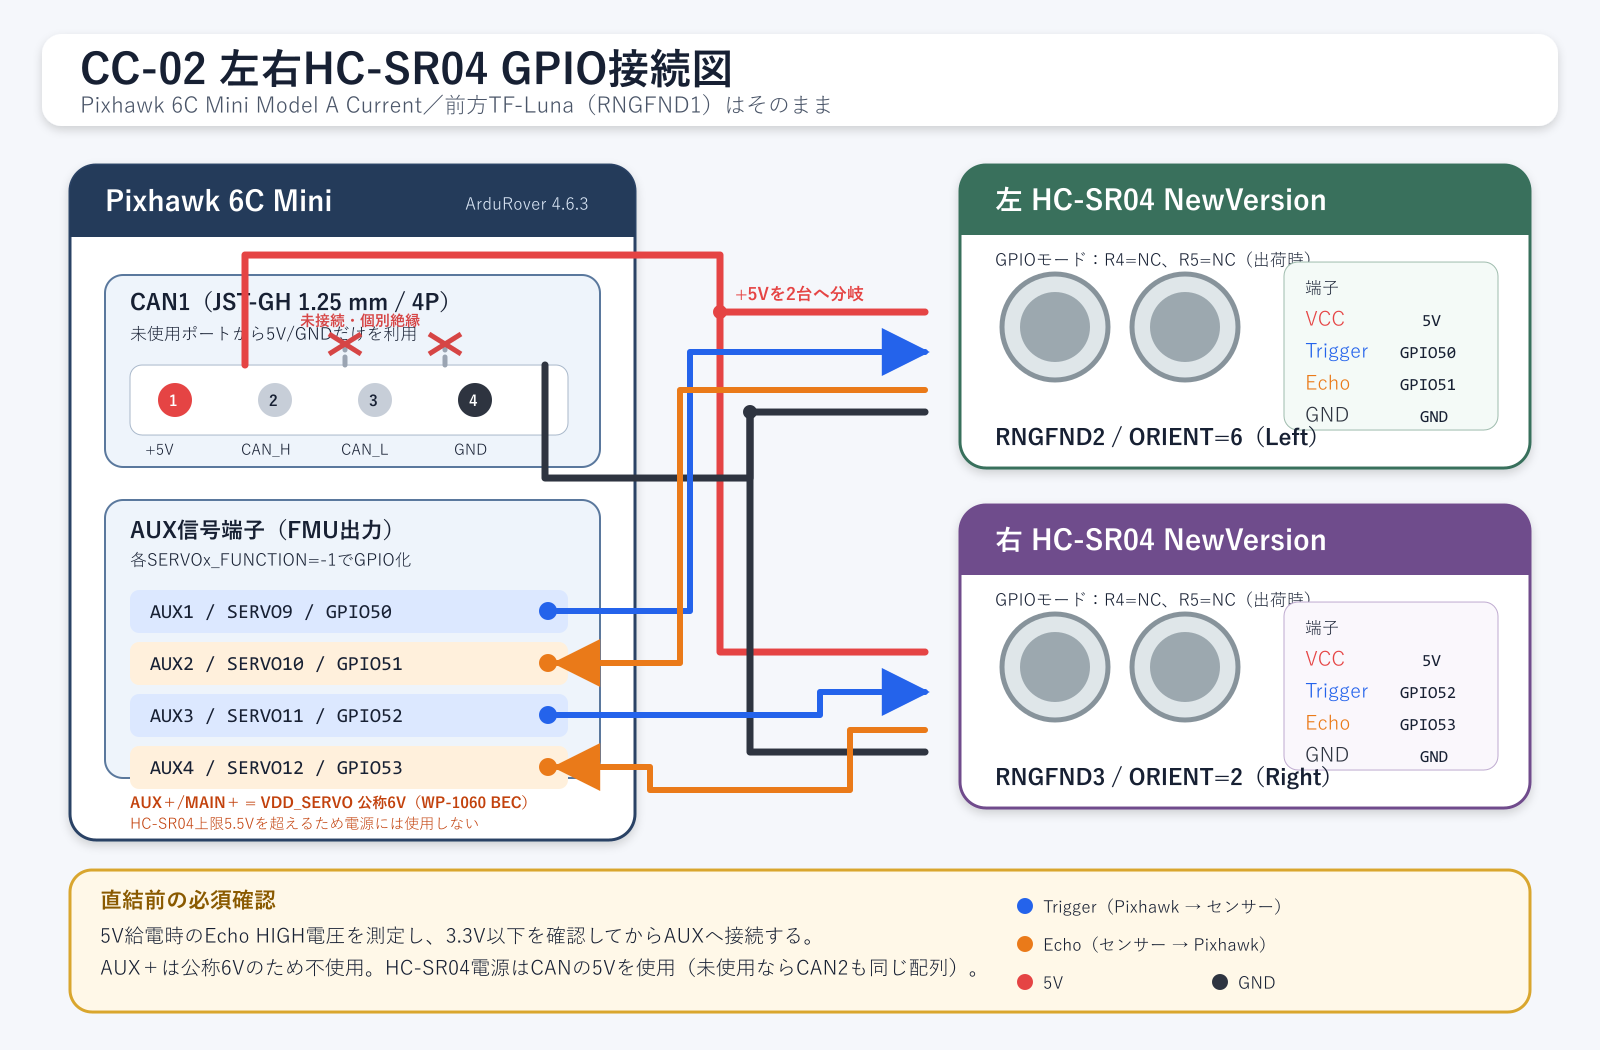
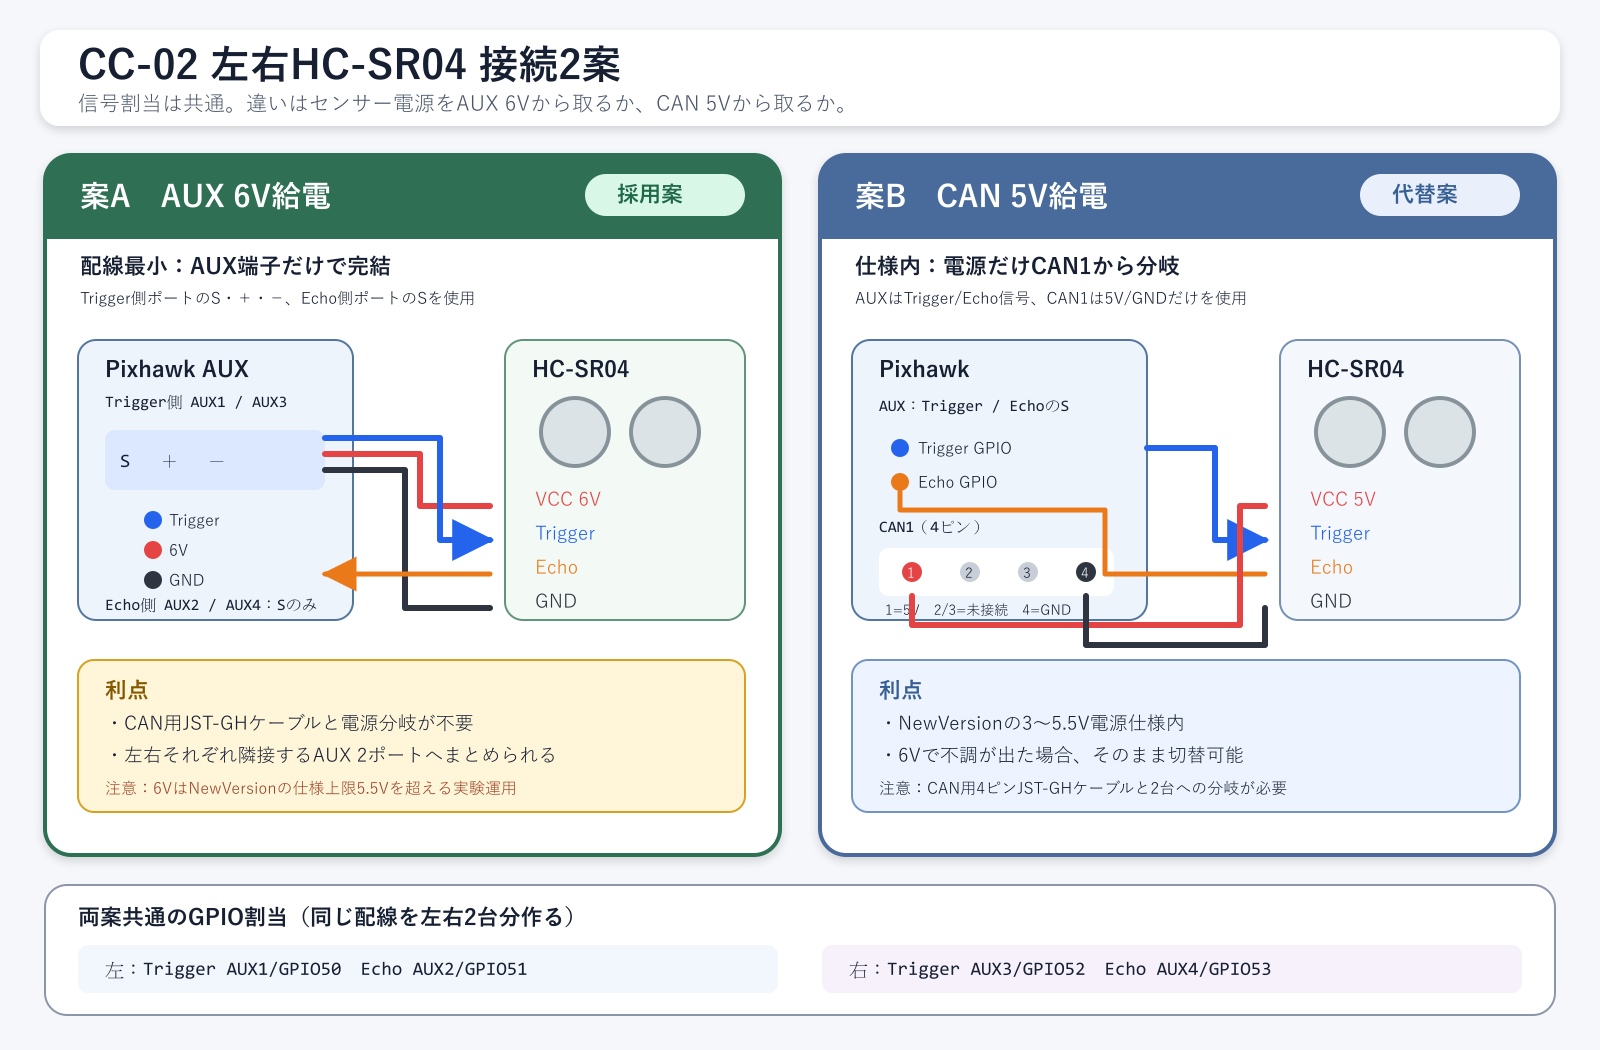
Update HC-SR04 project documentation and wiring diagrams
- Revised README.md to clarify power supply options and GPIO assignments for left and right HC-SR04 sensors.
- Updated wiring diagrams (PNG and SVG) to reflect new connection schemes for AUX 6V and CAN 5V power sources.
- Enhanced visual elements in SVG diagrams for better readability and understanding of wiring configurations.

diff --git a/projects/06_HC-SR04左右距離計/README.md b/projects/06_HC-SR04左右距離計/README.md
@@ -7,14 +7,15 @@ CC-02の左右にHC-SR04（2020 NewVersion）を追加し、Pixhawk 6C MiniのGP
 ## 資料
 
 - [HC-SR04左右距離計の接続と設定](01_HC-SR04左右距離計_接続と設定.md)
-- [接続図（PNG）](images/hc-sr04-dual-gpio-wiring.png)
-- [接続図（SVG）](images/hc-sr04-dual-gpio-wiring.svg)
+- [AUX 6V案／CAN 5V案の比較接続図（PNG）](images/hc-sr04-dual-gpio-wiring.png)
+- [AUX 6V案／CAN 5V案の比較接続図（SVG）](images/hc-sr04-dual-gpio-wiring.svg)
 
 ## 採用案
 
 - 前方の既設TF-Lunaは `RNGFND1` のまま維持する。
 - 左HC-SR04を `RNGFND2`、右HC-SR04を `RNGFND3` とする。
 - 信号はPixhawk 6C MiniのAUX1～AUX4をGPIOとして使用する。
-- 電源は未使用のCAN1から5V/GNDだけを分岐する。CAN2を使う場合もピン配置は同じ。
-- AUX/MAINの＋はQuicRun WP-1060のBEC由来で公称6Vとなるため、HC-SR04の電源には使わない。
+- 電源はAUXの `+`（VDD_SERVO、公称6V）と `-`（GND）を使用し、CAN電源ケーブルを不要にする。
+- 公称6VはNewVersionの仕様上限5.5Vを超えるが、6V直結の実用例と配線簡素化を優先した実験運用とする。
+- Echoは抵抗を入れず、AUX信号端子へ直接接続する。
 - HC-SR04は出荷時のGPIOモード（`R4=NC`、`R5=NC`）で使う。

diff --git a/projects/README.md b/projects/README.md
@@ -9,7 +9,7 @@
 | 03 | [Lua障害物回避](03_Lua障害物回避/README.md) | SITL、Luaスクリプト、実機試験、画像・動画・ログ |
 | 04 | [WebGCS遠隔操作](04_WebGCS遠隔操作/README.md) | RC Override、携帯回線経由の遠隔操作、関連パラメータ |
 | 05 | [TELEM2 GPS検証](05_TELEM2_GPS検証/README.md) | Pixhawk 2.4.8のTELEM2 GPS接続とパススルー確認 |
-| 06 | [HC-SR04左右距離計](06_HC-SR04左右距離計/README.md) | 左右HC-SR04、GPIO接続、CANポート給電、ArduPilot設定・実機確認 |
+| 06 | [HC-SR04左右距離計](06_HC-SR04左右距離計/README.md) | 左右HC-SR04、AUX GPIO・6Vサーボレール接続、ArduPilot設定・実機確認 |
 
 ## 配置方針
 
